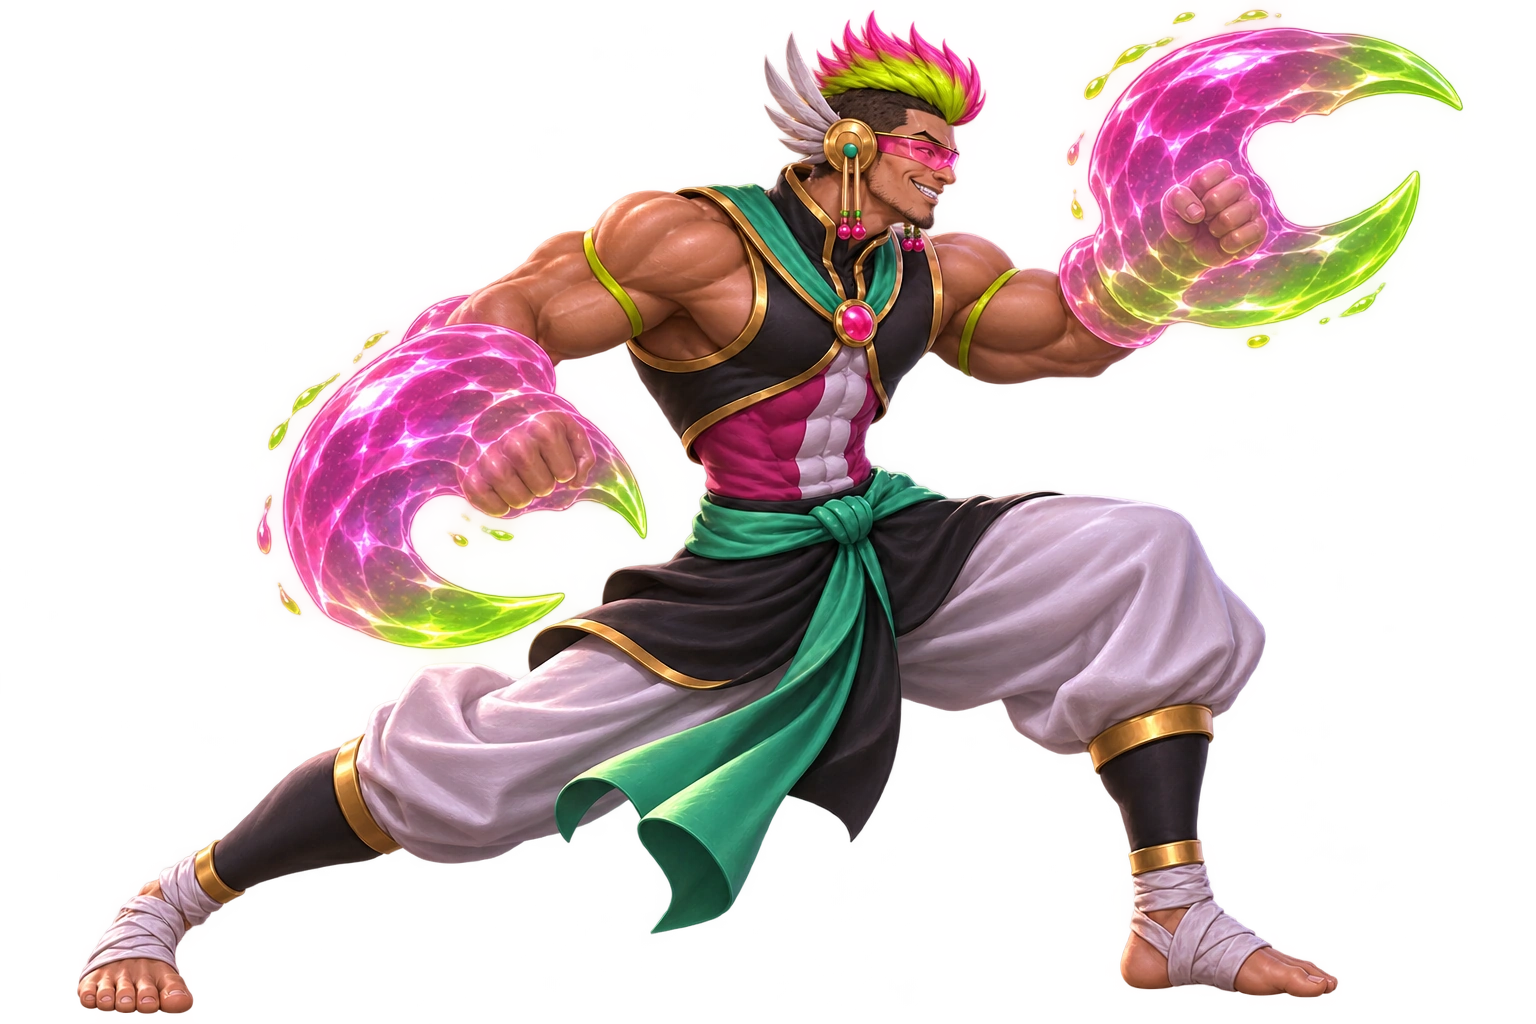
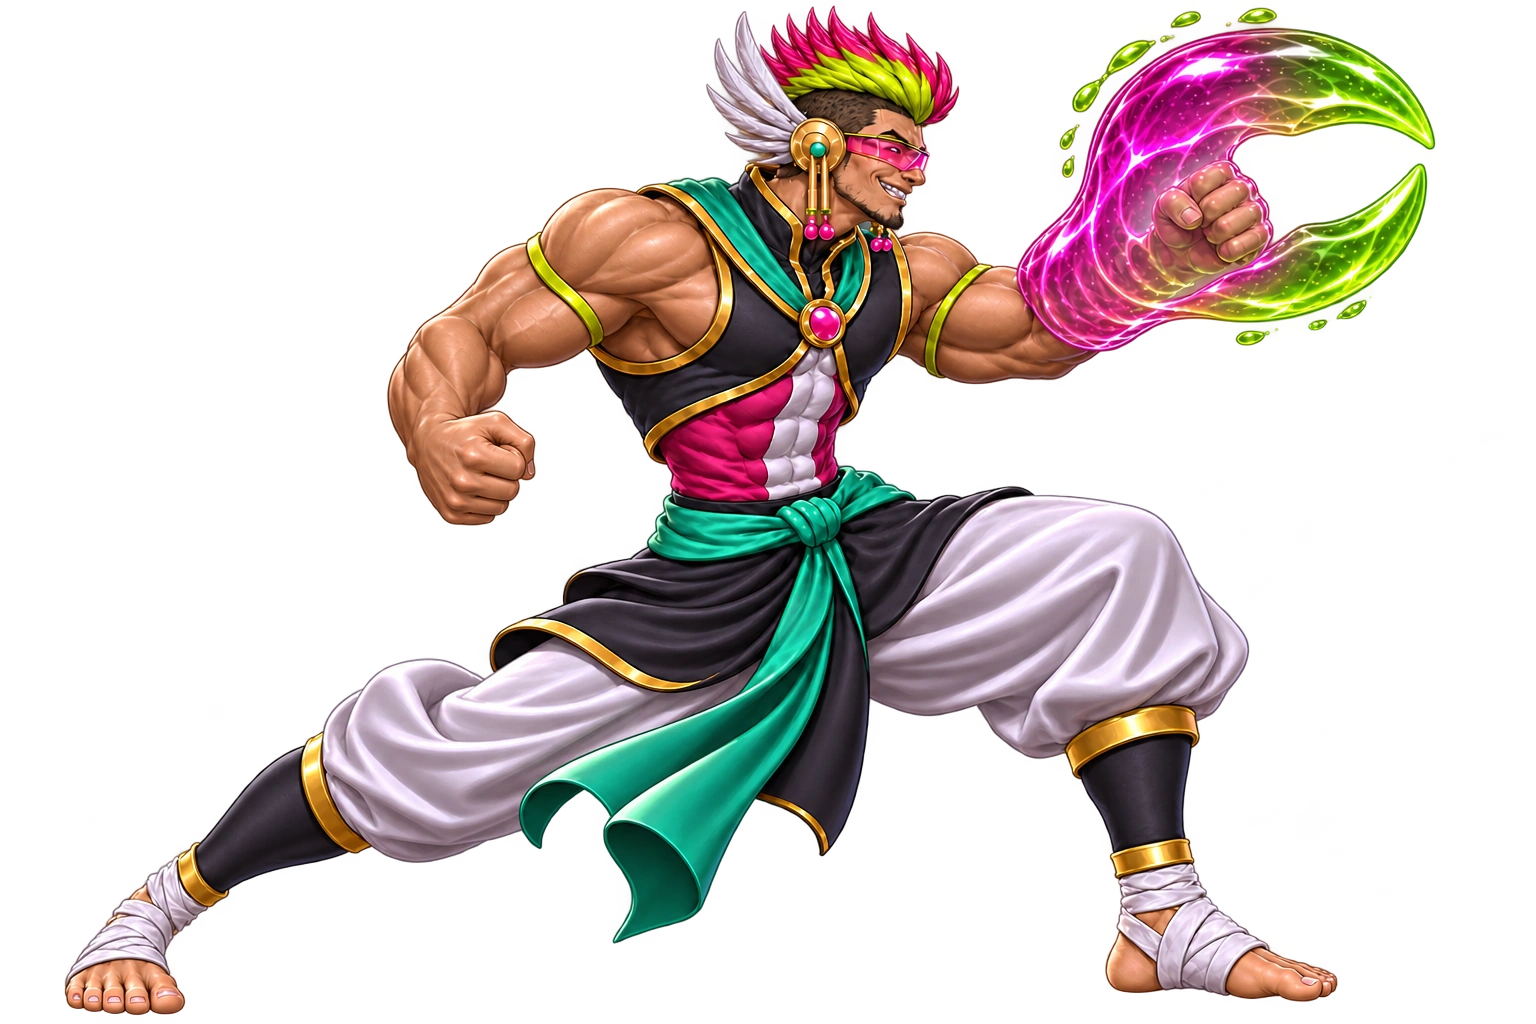
Refine Zodiac Coyote and Chase VS poses

diff --git a/game.js b/game.js
@@ -3463,6 +3463,7 @@ const versusStanceFrames = new Map([
   ['academy-dimitri', [1, 0, 1.7]],
   ['academy-topaz', [1, 0, 1.7]],
   ['ip-coyote-zodiac', [1, 0, 1.7]],
+  ['ip-chase-zodiac', [1, 0, 1.7]],
   ['ip-jet', [1, 0, 1.7]],
   ['ip-academy-chase', [1, 0, 1.7]],
   ['lt-clary', [1, 0, 1.7]],
@@ -3524,7 +3525,7 @@ function setVersusCharacterImage(elementId, card) {
   const assetId = characterArtAliases[card.id] || card.id;
   const frame = versusStanceFrames.get(assetId);
   const fallback = resultCharacterPath(card, 'victory');
-  const url = frame ? `assets/versus-characters/${assetId}.webp?v=${poseArtVersion(assetId, 'stances-v4')}` : fallback;
+  const url = frame ? `assets/versus-characters/${assetId}.webp?v=${poseArtVersion(assetId, 'stances-v5')}` : fallback;
   if (image.dataset.versusArt !== url) {
     image.dataset.versusArt = url;
     if (frame) {
